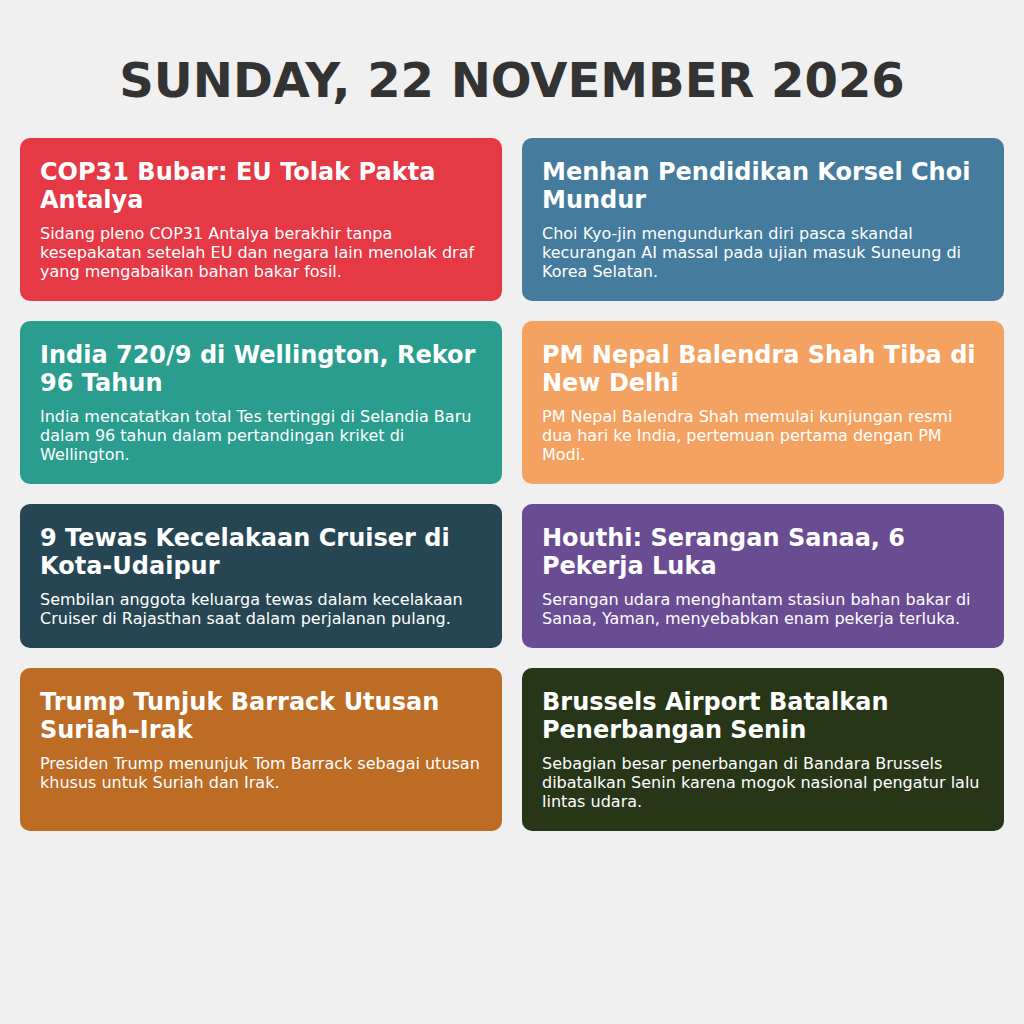
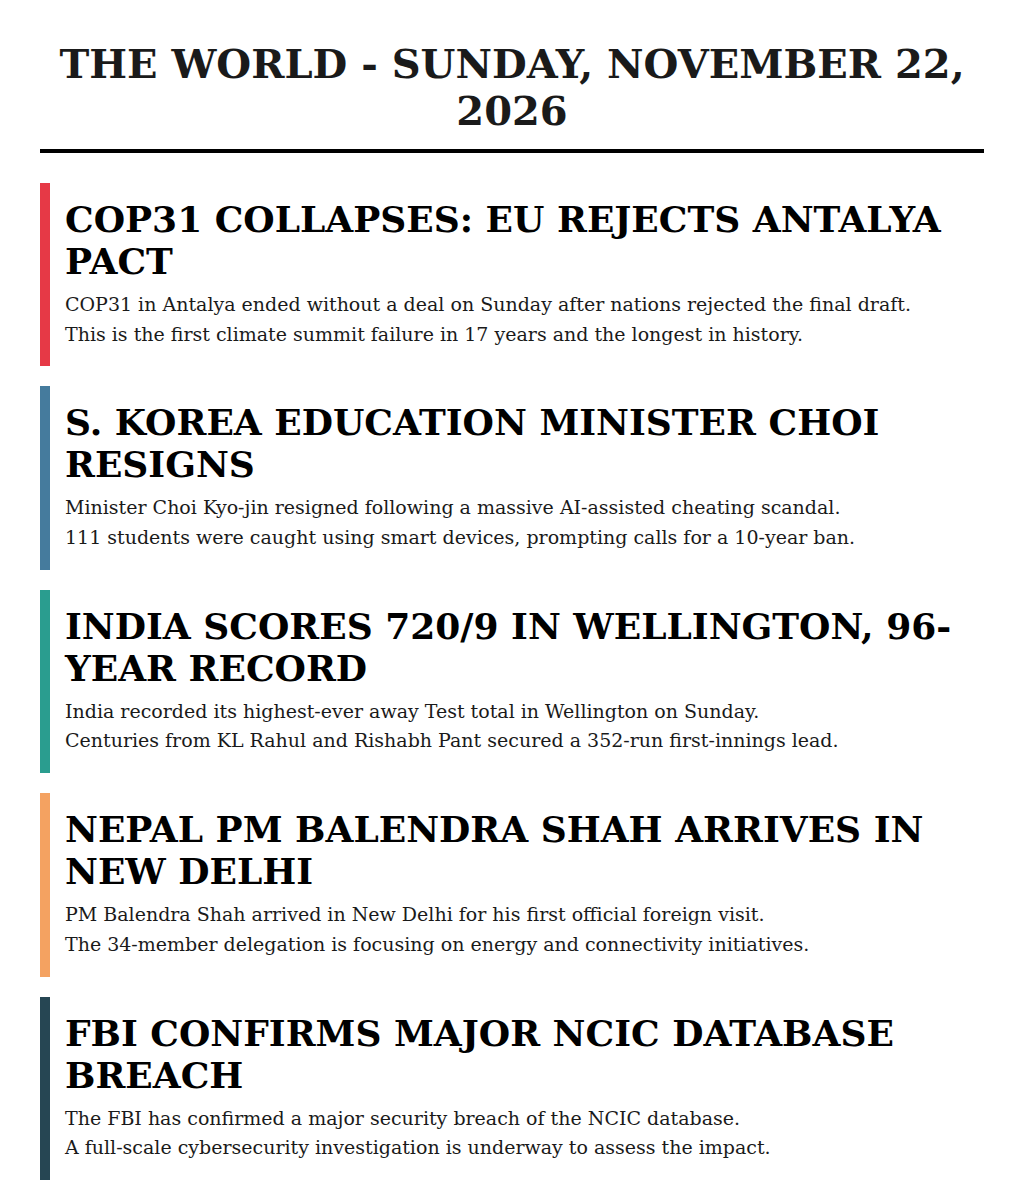
v2: English front page, five stories, larger typography

diff --git a/render.js b/render.js
@@ -1,7 +1,5 @@
-
 const { chromium } = require('playwright-core');
 const fs = require('fs');
-const path = require('path');
 
 (async () => {
   const browser = await chromium.launch();
@@ -13,49 +11,39 @@ const path = require('path');
     <html lang="en">
     <head>
       <style>
-        body { font-family: sans-serif; background: #f0f0f0; margin: 0; padding: 20px; width: 1024px; height: 1024px; box-sizing: border-box; }
-        h1 { font-size: 48px; text-align: center; margin-bottom: 30px; color: #333; }
-        .grid { display: grid; grid-template-columns: 1fr 1fr; gap: 20px; }
-        .block { padding: 20px; border-radius: 10px; color: white; }
-        h2 { font-size: 24px; margin: 0 0 10px 0; }
-        p { font-size: 16px; margin: 0; }
+        body { font-family: 'Times New Roman', serif; background: #fff; margin: 0; padding: 40px; width: 1024px; height: 1024px; box-sizing: border-box; color: #1a1a1a; }
+        h1 { font-size: 40px; text-align: center; margin: 0 0 30px 0; padding-bottom: 15px; border-bottom: 4px solid #000; text-transform: uppercase; font-weight: bold; }
+        .story { padding: 15px; margin-bottom: 20px; border-left: 10px solid #ccc; background: #fff; }
+        h2 { font-size: 36px; font-weight: bold; margin: 0 0 10px 0; color: #000; text-transform: uppercase; }
+        p { font-size: 19px; margin: 5px 0; line-height: 1.3; color: #1a1a1a; }
       </style>
     </head>
     <body>
-      <h1>SUNDAY, 22 NOVEMBER 2026</h1>
-      <div class="grid">
-        <div class="block" style="background: #e63946;">
-          <h2>COP31 Bubar: EU Tolak Pakta Antalya</h2>
-          <p>Sidang pleno COP31 Antalya berakhir tanpa kesepakatan setelah EU dan negara lain menolak draf yang mengabaikan bahan bakar fosil.</p>
-        </div>
-        <div class="block" style="background: #457b9d;">
-          <h2>Menhan Pendidikan Korsel Choi Mundur</h2>
-          <p>Choi Kyo-jin mengundurkan diri pasca skandal kecurangan AI massal pada ujian masuk Suneung di Korea Selatan.</p>
-        </div>
-        <div class="block" style="background: #2a9d8f;">
-          <h2>India 720/9 di Wellington, Rekor 96 Tahun</h2>
-          <p>India mencatatkan total Tes tertinggi di Selandia Baru dalam 96 tahun dalam pertandingan kriket di Wellington.</p>
-        </div>
-        <div class="block" style="background: #f4a261;">
-          <h2>PM Nepal Balendra Shah Tiba di New Delhi</h2>
-          <p>PM Nepal Balendra Shah memulai kunjungan resmi dua hari ke India, pertemuan pertama dengan PM Modi.</p>
-        </div>
-        <div class="block" style="background: #264653;">
-          <h2>9 Tewas Kecelakaan Cruiser di Kota-Udaipur</h2>
-          <p>Sembilan anggota keluarga tewas dalam kecelakaan Cruiser di Rajasthan saat dalam perjalanan pulang.</p>
-        </div>
-        <div class="block" style="background: #6a4c93;">
-          <h2>Houthi: Serangan Sanaa, 6 Pekerja Luka</h2>
-          <p>Serangan udara menghantam stasiun bahan bakar di Sanaa, Yaman, menyebabkan enam pekerja terluka.</p>
-        </div>
-        <div class="block" style="background: #bc6c25;">
-          <h2>Trump Tunjuk Barrack Utusan Suriah–Irak</h2>
-          <p>Presiden Trump menunjuk Tom Barrack sebagai utusan khusus untuk Suriah dan Irak.</p>
-        </div>
-        <div class="block" style="background: #283618;">
-          <h2>Brussels Airport Batalkan Penerbangan Senin</h2>
-          <p>Sebagian besar penerbangan di Bandara Brussels dibatalkan Senin karena mogok nasional pengatur lalu lintas udara.</p>
-        </div>
+      <h1>THE WORLD - SUNDAY, NOVEMBER 22, 2026</h1>
+      <div class="story" style="border-left-color: #e63946;">
+        <h2>COP31 COLLAPSES: EU REJECTS ANTALYA PACT</h2>
+        <p>COP31 in Antalya ended without a deal on Sunday after nations rejected the final draft.</p>
+        <p>This is the first climate summit failure in 17 years and the longest in history.</p>
+      </div>
+      <div class="story" style="border-left-color: #457b9d;">
+        <h2>S. KOREA EDUCATION MINISTER CHOI RESIGNS</h2>
+        <p>Minister Choi Kyo-jin resigned following a massive AI-assisted cheating scandal.</p>
+        <p>111 students were caught using smart devices, prompting calls for a 10-year ban.</p>
+      </div>
+      <div class="story" style="border-left-color: #2a9d8f;">
+        <h2>INDIA SCORES 720/9 IN WELLINGTON, 96-YEAR RECORD</h2>
+        <p>India recorded its highest-ever away Test total in Wellington on Sunday.</p>
+        <p>Centuries from KL Rahul and Rishabh Pant secured a 352-run first-innings lead.</p>
+      </div>
+      <div class="story" style="border-left-color: #f4a261;">
+        <h2>NEPAL PM BALENDRA SHAH ARRIVES IN NEW DELHI</h2>
+        <p>PM Balendra Shah arrived in New Delhi for his first official foreign visit.</p>
+        <p>The 34-member delegation is focusing on energy and connectivity initiatives.</p>
+      </div>
+      <div class="story" style="border-left-color: #264653;">
+        <h2>FBI CONFIRMS MAJOR NCIC DATABASE BREACH</h2>
+        <p>The FBI has confirmed a major security breach of the NCIC database.</p>
+        <p>A full-scale cybersecurity investigation is underway to assess the impact.</p>
       </div>
     </body>
     </html>
